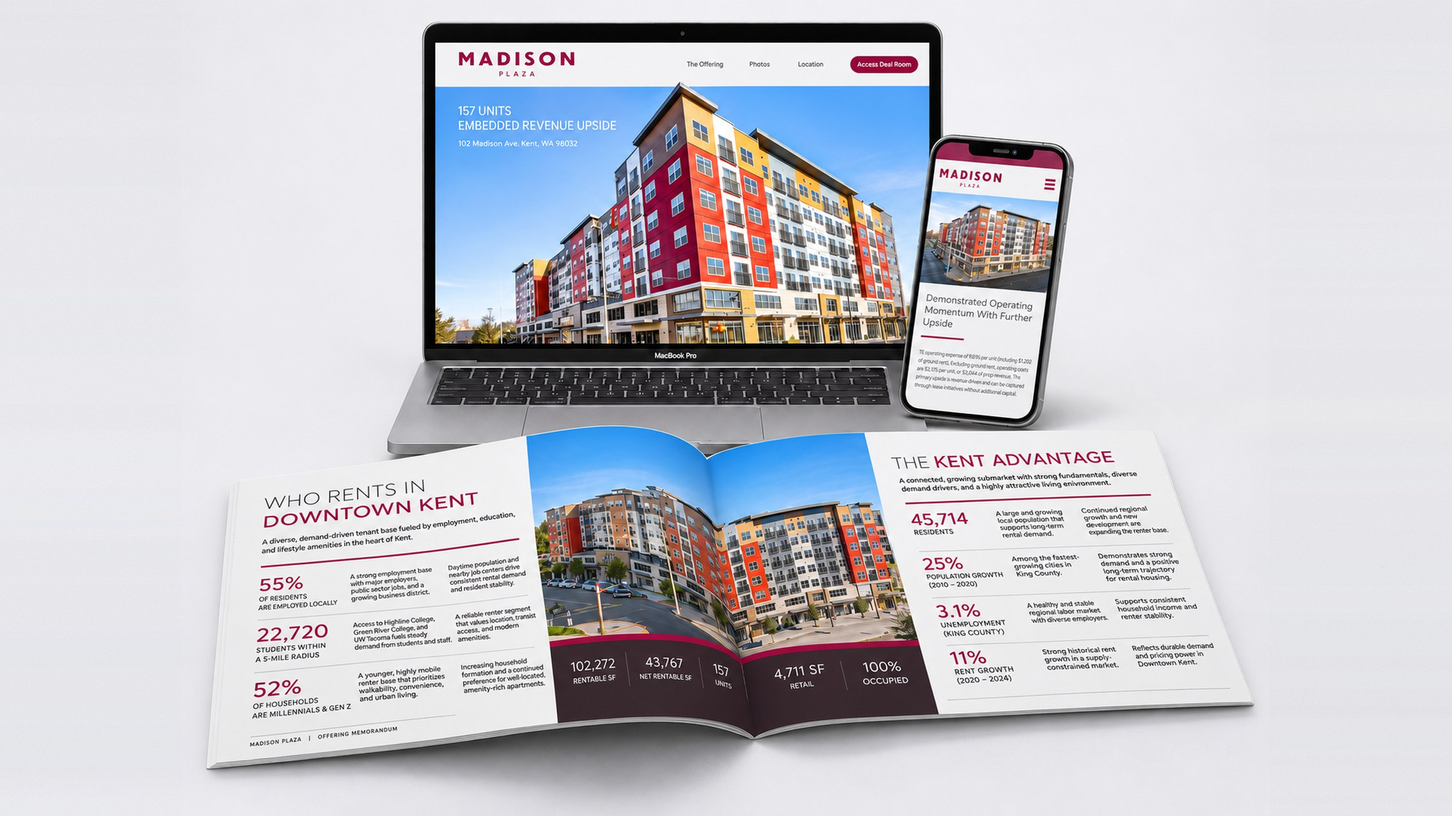
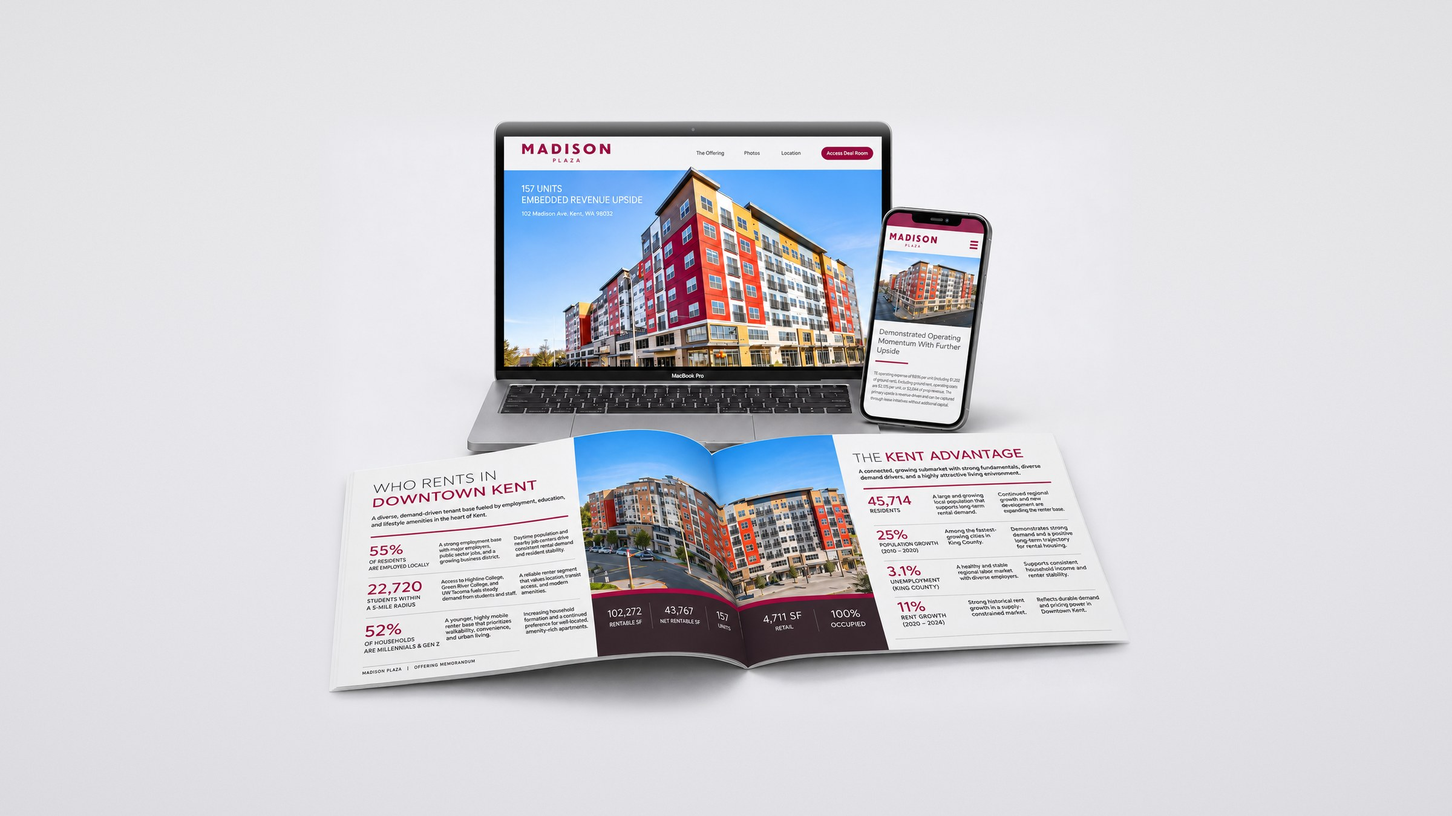
Final round: Madison home card with breathing room; Nomad hero + card = Rodrigo's desk mockup

diff --git a/work/nomad.html b/work/nomad.html
@@ -13,7 +13,7 @@
 <button class="menu-btn mono-s" aria-expanded="false" aria-controls="site-links"><span>Menu</span></button>
 <nav class="links" id="site-links"><a class="nav-t" href="../works.html#real-estate" aria-current="page">Real Estate</a><a class="nav-t" href="../works.html#brand">Brand &amp; Ecommerce</a><a class="nav-t" href="../about.html">About</a><a class="nav-t" href="../contact.html">Contact</a><a class="btn sm pri" href="../contact.html">Get in Touch <span aria-hidden="true">→</span></a></nav></header>
 <main id="main"><section class="wrap case-cover" data-name="Case Cover"><div class="row" style="justify-content:space-between;gap:16px"><span class="mono muted">[Case Study] Real Estate</span><a class="mono muted" href="../works.html">← All Works</a></div>
-<div class="g12"><h1 class="case-title c1-8">Nomad</h1><p class="bl c8-13">An investor offering package that sells a North Portland apartment community through bold colour, editorial photography and clear market storytelling.</p></div></section><div class="case-hero" data-name="Hero Mockup"><img src="../assets/img/nomad/hero.jpg?v=4404f5a2" alt="Nomad — hero mockup" width="2400" height="1350" decoding="async"></div><section class="wrap case-meta" data-name="Meta"><div class="meta-row"><div><span class="mono-s muted">[Client]</span><span class="bm">Colliers</span></div><div><span class="mono-s muted">[Type]</span><span class="bm">Investor Offering Package</span></div><div><span class="mono-s muted">[Location]</span><span class="bm">Overlook, North Portland, OR</span></div><div><span class="mono-s muted">[Year]</span><span class="bm">2026</span></div><div><span class="mono-s muted">[Role]</span><span class="bm">Graphic Designer</span></div></div></section><section class="dark psr" data-name="Project / Solution / Results">
+<div class="g12"><h1 class="case-title c1-8">Nomad</h1><p class="bl c8-13">An investor offering package that sells a North Portland apartment community through bold colour, editorial photography and clear market storytelling.</p></div></section><div class="case-hero" style="aspect-ratio:1448/1086" data-name="Hero Mockup"><img src="../assets/img/nomad/hero.jpg?v=80cf31cd" alt="Nomad — hero mockup" width="1448" height="1086" decoding="async"></div><section class="wrap case-meta" data-name="Meta"><div class="meta-row"><div><span class="mono-s muted">[Client]</span><span class="bm">Colliers</span></div><div><span class="mono-s muted">[Type]</span><span class="bm">Investor Offering Package</span></div><div><span class="mono-s muted">[Location]</span><span class="bm">Overlook, North Portland, OR</span></div><div><span class="mono-s muted">[Year]</span><span class="bm">2026</span></div><div><span class="mono-s muted">[Role]</span><span class="bm">Graphic Designer</span></div></div></section><section class="dark psr" data-name="Project / Solution / Results">
 <div class="blk"><div class="lab"><span class="mono muted">[01]</span><span class="s">Project</span></div><div class="txt"><p class="s">Nomad is an apartment community in North Portland’s Overlook neighborhood, brought to market by Colliers as an investment sale. The offering package had to give institutional and private investors a fast, credible read on the property, the neighborhood and the Portland market — and make the opportunity stand out in a crowded deal pipeline.</p></div></div>
 <div class="blk"><div class="lab"><span class="mono muted">[02]</span><span class="s">Solution</span></div><div class="txt"><p class="bl">A landscape document organized into five numbered chapters — Investment Summary, Property Description, Market Overview, The Comparables and The Financials. Each chapter opens on a full-bleed photograph washed in a red-to-yellow colour gradient, with a charcoal chapter tab and an oversized italic numeral.</p><p class="bl">A tight system carries every page: heavy italic display type and orange headlines in outlined title boxes, a four-colour palette of signal red, orange, sun yellow and charcoal, diagonal hatch accents, a consistent icon set, a custom site plan, neighborhood and access maps, and charts drawn in the same palette so market data reads at a glance.</p></div></div>
 </section><section class="case-gallery white" data-name="Gallery"><div class="wrap cg8"><div class="cg-col"><div class="g-block"><div class="g-head"><h2 class="ci-h">Design system</h2><p class="bm muted">Palette sampled from the printed pages.</p></div><div class="gallery"><div class="swatches"><div class="col gap8"><div class="sw" style="background:#FF343B"></div><span class="mono-s">Signal Red</span><span class="mono-s muted">#FF343B</span></div><div class="col gap8"><div class="sw" style="background:#FF7B21"></div><span class="mono-s">Orange</span><span class="mono-s muted">#FF7B21</span></div><div class="col gap8"><div class="sw" style="background:#FFC55E"></div><span class="mono-s">Sun Yellow</span><span class="mono-s muted">#FFC55E</span></div><div class="col gap8"><div class="sw" style="background:#3C3839"></div><span class="mono-s">Charcoal</span><span class="mono-s muted">#3C3839</span></div><div class="col gap8"><div class="sw" style="background:#FFFFFF"></div><span class="mono-s">White</span><span class="mono-s muted">#FFFFFF</span></div></div></div></div><div class="g-block"><div class="g-head"><h2 class="ci-h">The printed book</h2></div><div class="gallery"><div class="g-row"><figure class="pic" style="flex:1.7778 1 0"><img src="../assets/img/nomad/book_a.jpg?v=9544cfde" alt="The 03 Market Overview spread beside the closed cover" width="2400" height="1350" decoding="async"></figure></div><div class="g-row"><figure class="pic" style="flex:1.7778 1 0"><img src="../assets/img/nomad/book_b.jpg?v=d80491ac" alt="The back cover with the contacts beside the Overlook Neighborhood spread" width="2400" height="1350" decoding="async"></figure></div><div class="g-row"><figure class="pic" style="flex:1.7778 1 0"><img src="../assets/img/nomad/book_c.jpg?v=89a4a194" alt="Inside spreads: property, floor plans and apartment amenities" width="2400" height="1350" decoding="async"></figure></div></div></div><div class="g-block"><div class="g-head"><h2 class="ci-h">Inside the book</h2><p class="bm muted">The whole book as an investor meets it — investment summary, the property, amenities and floor plans, the market and the comparables, through to the back cover. Turn the pages.</p></div><div class="fb-stage" data-name="Flip-book"><div class="fb-wrap"><div id="fb-book" class="fb-book" data-total="56"><div class="fb-page" data-pg="01" data-density="hard"><img alt="Nomad offering memorandum — Front cover" src="../assets/img/nomad/flip/f00.jpg" draggable="false"></div><div class="fb-page" data-pg="02"><img alt="Nomad offering memorandum — Page 2" src="../assets/img/nomad/flip/f01.jpg" draggable="false"></div><div class="fb-page" data-pg="03"><img alt="Nomad offering memorandum — Page 3" src="../assets/img/nomad/flip/f02.jpg" draggable="false"></div><div class="fb-page" data-pg="04"><img alt="Nomad offering memorandum — Page 4" src="../assets/img/nomad/flip/f03.jpg" draggable="false"></div><div class="fb-page" data-pg="05"><img alt="Nomad offering memorandum — Page 5" src="../assets/img/nomad/flip/f04.jpg" draggable="false"></div><div class="fb-page" data-pg="06"><img alt="Nomad offering memorandum — Page 6" src="../assets/img/nomad/flip/f05.jpg" draggable="false"></div><div class="fb-page" data-pg="07"><img alt="Nomad offering memorandum — Page 7" src="../assets/img/nomad/flip/f06.jpg" draggable="false"></div><div class="fb-page" data-pg="08"><img alt="Nomad offering memorandum — Page 8" src="../assets/img/nomad/flip/f07.jpg" draggable="false"></div><div class="fb-page" data-pg="09"><img alt="Nomad offering memorandum — Page 9" src="../assets/img/nomad/flip/f08.jpg" draggable="false"></div><div class="fb-page" data-pg="10"><img alt="Nomad offering memorandum — Page 10" src="../assets/img/nomad/flip/f09.jpg" draggable="false"></div><div class="fb-page" data-pg="11"><img alt="Nomad offering memorandum — Page 11" src="../assets/img/nomad/flip/f10.jpg" draggable="false"></div><div class="fb-page" data-pg="12"><img alt="Nomad offering memorandum — Page 12" src="../assets/img/nomad/flip/f11.jpg" draggable="false"></div><div class="fb-page" data-pg="13"><img alt="Nomad offering memorandum — Page 13" src="../assets/img/nomad/flip/f12.jpg" draggable="false"></div><div class="fb-page" data-pg="14"><img alt="Nomad offering memorandum — Page 14" src="../assets/img/nomad/flip/f13.jpg" draggable="false"></div><div class="fb-page" data-pg="15"><img alt="Nomad offering memorandum — Page 15" src="../assets/img/nomad/flip/f14.jpg" draggable="false"></div><div class="fb-page" data-pg="16"><img alt="Nomad offering memorandum — Page 16" src="../assets/img/nomad/flip/f15.jpg" draggable="false"></div><div class="fb-page" data-pg="17"><img alt="Nomad offering memorandum — Page 17" src="../assets/img/nomad/flip/f16.jpg" draggable="false"></div><div class="fb-page" data-pg="18"><img alt="Nomad offering memorandum — Page 18" src="../assets/img/nomad/flip/f17.jpg" draggable="false"></div><div class="fb-page" data-pg="19"><img alt="Nomad offering memorandum — Page 19" src="../assets/img/nomad/flip/f18.jpg" draggable="false"></div><div class="fb-page" data-pg="20"><img alt="Nomad offering memorandum — Page 20" src="../assets/img/nomad/flip/f19.jpg" draggable="false"></div><div class="fb-page" data-pg="21"><img alt="Nomad offering memorandum — Page 21" src="../assets/img/nomad/flip/f20.jpg" draggable="false"></div><div class="fb-page" data-pg="22"><img alt="Nomad offering memorandum — Page 22" src="../assets/img/nomad/flip/f21.jpg" draggable="false"></div><div class="fb-page" data-pg="23"><img alt="Nomad offering memorandum — Page 23" src="../assets/img/nomad/flip/f22.jpg" draggable="false"></div><div class="fb-page" data-pg="24"><img alt="Nomad offering memorandum — Page 24" src="../assets/img/nomad/flip/f23.jpg" draggable="false"></div><div class="fb-page" data-pg="25"><img alt="Nomad offering memorandum — Page 25" src="../assets/img/nomad/flip/f24.jpg" draggable="false"></div><div class="fb-page" data-pg="26"><img alt="Nomad offering memorandum — Page 26" src="../assets/img/nomad/flip/f25.jpg" draggable="false"></div><div class="fb-page" data-pg="27"><img alt="Nomad offering memorandum — Page 27" src="../assets/img/nomad/flip/f26.jpg" draggable="false"></div><div class="fb-page" data-pg="28"><img alt="Nomad offering memorandum — Page 28" src="../assets/img/nomad/flip/f27.jpg" draggable="false"></div><div class="fb-page" data-pg="29"><img alt="Nomad offering memorandum — Page 29" src="../assets/img/nomad/flip/f28.jpg" draggable="false"></div><div class="fb-page" data-pg="30"><img alt="Nomad offering memorandum — Page 30" src="../assets/img/nomad/flip/f29.jpg" draggable="false"></div><div class="fb-page" data-pg="31"><img alt="Nomad offering memorandum — Page 31" src="../assets/img/nomad/flip/f30.jpg" draggable="false"></div><div class="fb-page" data-pg="32"><img alt="Nomad offering memorandum — Page 32" src="../assets/img/nomad/flip/f31.jpg" draggable="false"></div><div class="fb-page" data-pg="33"><img alt="Nomad offering memorandum — Page 33" src="../assets/img/nomad/flip/f32.jpg" draggable="false"></div><div class="fb-page" data-pg="34"><img alt="Nomad offering memorandum — Page 34" src="../assets/img/nomad/flip/f33.jpg" draggable="false"></div><div class="fb-page" data-pg="35"><img alt="Nomad offering memorandum — Page 35" src="../assets/img/nomad/flip/f34.jpg" draggable="false"></div><div class="fb-page" data-pg="36"><img alt="Nomad offering memorandum — Page 36" src="../assets/img/nomad/flip/f35.jpg" draggable="false"></div><div class="fb-page" data-pg="37"><img alt="Nomad offering memorandum — Page 37" src="../assets/img/nomad/flip/f36.jpg" draggable="false"></div><div class="fb-page" data-pg="38"><img alt="Nomad offering memorandum — Page 38" src="../assets/img/nomad/flip/f37.jpg" draggable="false"></div><div class="fb-page" data-pg="39"><img alt="Nomad offering memorandum — Page 39" src="../assets/img/nomad/flip/f38.jpg" draggable="false"></div><div class="fb-page" data-pg="40"><img alt="Nomad offering memorandum — Page 40" src="../assets/img/nomad/flip/f39.jpg" draggable="false"></div><div class="fb-page" data-pg="41"><img alt="Nomad offering memorandum — Page 41" src="../assets/img/nomad/flip/f40.jpg" draggable="false"></div><div class="fb-page" data-pg="42"><img alt="Nomad offering memorandum — Page 42" src="../assets/img/nomad/flip/f41.jpg" draggable="false"></div><div class="fb-page" data-pg="43"><img alt="Nomad offering memorandum — Page 43" src="../assets/img/nomad/flip/f42.jpg" draggable="false"></div><div class="fb-page" data-pg="44"><img alt="Nomad offering memorandum — Page 44" src="../assets/img/nomad/flip/f43.jpg" draggable="false"></div><div class="fb-page" data-pg="45"><img alt="Nomad offering memorandum — Page 45" src="../assets/img/nomad/flip/f44.jpg" draggable="false"></div><div class="fb-page" data-pg="46"><img alt="Nomad offering memorandum — Page 46" src="../assets/img/nomad/flip/f45.jpg" draggable="false"></div><div class="fb-page" data-pg="47"><img alt="Nomad offering memorandum — Page 47" src="../assets/img/nomad/flip/f46.jpg" draggable="false"></div><div class="fb-page" data-pg="48"><img alt="Nomad offering memorandum — Page 48" src="../assets/img/nomad/flip/f47.jpg" draggable="false"></div><div class="fb-page" data-pg="49"><img alt="Nomad offering memorandum — Page 49" src="../assets/img/nomad/flip/f48.jpg" draggable="false"></div><div class="fb-page fb-conf fb-conf-l" data-pg="50"><div class="fb-confin"><span class="fb-conft">Confidential —<span class="po"> financial information omitted</span></span></div></div><div class="fb-page fb-conf fb-conf-r" data-pg="55"><div class="fb-confin"><span class="fb-conft la">financial information omitted</span><span class="mono-s fb-confm po">[05] The Financials · pages 50–55</span></div></div><div class="fb-page" data-pg="56" data-density="hard"><img alt="Nomad offering memorandum — Back cover" src="../assets/img/nomad/flip/f49.jpg" draggable="false"></div></div></div>

diff --git a/index.html b/index.html
@@ -31,10 +31,10 @@
 <div class="grid2 mt64"><a class="card" href="work/the-grid.html" data-name="Project Card / The Grid (Kirkland 405)"><div class="ph "><img src="assets/img/the-grid/card.jpg?v=7beb50c8" alt="The Grid (Kirkland 405) — project image" width="1647" height="1235" decoding="async"></div>
 <div class="meta"><div class="col"><span class="s">The Grid (Kirkland 405)</span><span class="mono muted">Naming &amp; Brand Identity · Kirkland, WA</span></div><span class="mono">2025</span></div></a><a class="card" href="work/pacific-center.html" data-name="Project Card / Pacific Center"><div class="ph "><img src="assets/img/pacific-center/card.jpg?v=2789054b" alt="Pacific Center — project image" width="1440" height="1080" decoding="async"></div>
 <div class="meta"><div class="col"><span class="s">Pacific Center</span><span class="mono muted">Leasing Brochure · Portland, OR</span></div><span class="mono">2026</span></div></a></div>
-<div class="mt64"><a class="card" href="work/madison-plaza.html" data-name="Project Card / Madison Plaza"><div class="ph r169"><img src="assets/img/madison-plaza/card-wide.jpg?v=ffceb607" alt="Madison Plaza — project image" width="2400" height="1350" decoding="async"></div>
+<div class="mt64"><a class="card" href="work/madison-plaza.html" data-name="Project Card / Madison Plaza"><div class="ph r169"><img src="assets/img/madison-plaza/card-wide.jpg?v=1e63f0b9" alt="Madison Plaza — project image" width="2400" height="1350" decoding="async"></div>
 <div class="meta"><div class="col"><span class="s">Madison Plaza</span><span class="mono muted">Investor Offering Package · Kent, WA</span></div><span class="mono">2026</span></div></a></div>
 <div class="grid2 mt64"><a class="card" href="work/leftbank.html" data-name="Project Card / The Leftbank Project"><div class="ph "><img src="assets/img/leftbank/card.jpg?v=5ea756f8" alt="The Leftbank Project — project image" width="1440" height="1080" decoding="async"></div>
-<div class="meta"><div class="col"><span class="s">The Leftbank Project</span><span class="mono muted">Digital Leasing Brochure · Portland, OR</span></div><span class="mono">2026</span></div></a><a class="card" href="work/nomad.html" data-name="Project Card / Nomad"><div class="ph "><img src="assets/img/nomad/card.jpg?v=d7f63ac6" alt="Nomad — project image" width="1440" height="1080" decoding="async"></div>
+<div class="meta"><div class="col"><span class="s">The Leftbank Project</span><span class="mono muted">Digital Leasing Brochure · Portland, OR</span></div><span class="mono">2026</span></div></a><a class="card" href="work/nomad.html" data-name="Project Card / Nomad"><div class="ph "><img src="assets/img/nomad/card.jpg?v=63264f4c" alt="Nomad — project image" width="1440" height="1080" decoding="async"></div>
 <div class="meta"><div class="col"><span class="s">Nomad</span><span class="mono muted">Investor Offering Package · Overlook, North Portland, OR</span></div><span class="mono">2026</span></div></a></div>
 <div class="grid2 mt64"><a class="card" href="work/springwood.html" data-name="Project Card / Springwood of Beaverton"><div class="ph "><img src="assets/img/springwood/hero.jpg?v=68efe637" alt="Springwood of Beaverton — project image" width="2304" height="1728" decoding="async"></div>
 <div class="meta"><div class="col"><span class="s">Springwood of Beaverton</span><span class="mono muted">Digital Offering Memorandum · Beaverton, OR</span></div><span class="mono">2026</span></div></a><a class="card" href="work/mauzey-court.html" data-name="Project Card / 8210 Mauzey Court"><div class="ph "><img src="assets/img/mauzey-court/card.jpg?v=dc999030" alt="8210 Mauzey Court — project image" width="2304" height="1728" decoding="async"></div>

diff --git a/works.html b/works.html
@@ -18,7 +18,7 @@
 <div class="sec-head clean"><div class="col gap16"><span class="mono muted">[01] (10)</span><h2 class="xl">Real Estate</h2></div><p class="bm muted intro">Leasing brochures, offering memorandums, branding, and digital marketing for commercial real estate — strategy and execution, from first concept to launch.</p></div>
 <div class="grid2"><a class="card" href="work/pdx-west.html" data-name="Project Card / PDX West Logistics Center"><div class="ph "><img src="assets/img/pdx-west/card.jpg?v=b9205638" alt="PDX West Logistics Center — project image" width="2304" height="1728" decoding="async"></div>
 <div class="meta"><div class="col"><span class="s">PDX West Logistics Center</span><span class="mono muted">Digital Leasing Brochure · Portland, OR</span></div><span class="mono">2026</span></div></a><a class="card" href="work/kress-building.html" data-name="Project Card / Kress Building"><div class="ph "><img src="assets/img/kress-building/card.jpg?v=b39d0d43" alt="Kress Building — project image" width="2304" height="1728" decoding="async"></div>
-<div class="meta"><div class="col"><span class="s">Kress Building</span><span class="mono muted">Digital Leasing Brochure · Portland, OR</span></div><span class="mono">2026</span></div></a><a class="card" href="work/nomad.html" data-name="Project Card / Nomad"><div class="ph "><img src="assets/img/nomad/card.jpg?v=d7f63ac6" alt="Nomad — project image" width="1440" height="1080" decoding="async"></div>
+<div class="meta"><div class="col"><span class="s">Kress Building</span><span class="mono muted">Digital Leasing Brochure · Portland, OR</span></div><span class="mono">2026</span></div></a><a class="card" href="work/nomad.html" data-name="Project Card / Nomad"><div class="ph "><img src="assets/img/nomad/card.jpg?v=63264f4c" alt="Nomad — project image" width="1440" height="1080" decoding="async"></div>
 <div class="meta"><div class="col"><span class="s">Nomad</span><span class="mono muted">Investor Offering Package · Overlook, North Portland, OR</span></div><span class="mono">2026</span></div></a><a class="card" href="work/the-grid.html" data-name="Project Card / The Grid (Kirkland 405)"><div class="ph "><img src="assets/img/the-grid/card.jpg?v=7beb50c8" alt="The Grid (Kirkland 405) — project image" width="1647" height="1235" decoding="async"></div>
 <div class="meta"><div class="col"><span class="s">The Grid (Kirkland 405)</span><span class="mono muted">Naming &amp; Brand Identity · Kirkland, WA</span></div><span class="mono">2025</span></div></a><a class="card" href="work/pacific-center.html" data-name="Project Card / Pacific Center"><div class="ph "><img src="assets/img/pacific-center/card.jpg?v=2789054b" alt="Pacific Center — project image" width="1440" height="1080" decoding="async"></div>
 <div class="meta"><div class="col"><span class="s">Pacific Center</span><span class="mono muted">Leasing Brochure · Portland, OR</span></div><span class="mono">2026</span></div></a><a class="card" href="work/leftbank.html" data-name="Project Card / The Leftbank Project"><div class="ph "><img src="assets/img/leftbank/card.jpg?v=5ea756f8" alt="The Leftbank Project — project image" width="1440" height="1080" decoding="async"></div>

diff --git a/work/kress-building.html b/work/kress-building.html
@@ -22,7 +22,7 @@
 <div class="tab-dots" aria-hidden="true"><i class="on"></i><i></i><i></i><i></i><i></i><i></i><i></i><i></i><i></i><i></i></div>
 <div class="tab-foot"><span class="mono-s tab-hint"><span class="hd">Swipe or drag the page, click its edge, or use the <span class="kb">←</span> <span class="kb">→</span> keys</span><span class="hm">Swipe the screen or tap the arrows</span></span></div><p class="mono-s tab-note">All ten pages are shown as published — the leasing details in this brochure are public record.</p></div></div></div></div></section><section class="case-next" data-name="Next Project"><div class="wrap cg8">
 <div class="cn-head"><h2 class="cn-title">Next Project</h2><a class="btn sec sm" href="../works.html">All Works <span aria-hidden="true">→</span></a></div>
-<a class="cn-card" href="../work/nomad.html"><div class="ph"><img src="../assets/img/nomad/card.jpg?v=d7f63ac6" alt="Nomad" width="1440" height="1080" decoding="async"></div>
+<a class="cn-card" href="../work/nomad.html"><div class="ph"><img src="../assets/img/nomad/card.jpg?v=63264f4c" alt="Nomad" width="1440" height="1080" decoding="async"></div>
 <div class="cn-meta"><span class="mono-s">Nomad</span><span class="mono-s">2026</span></div></a>
 </div></section></main>
 <footer class="foot dark" data-name="Footer CTA">

diff --git a/_src/final_round.py b/_src/final_round.py
@@ -1,0 +1,38 @@
+"""Nov 24 final round (Rodrigo t106u):
+- Madison HOME wide card: his mockup scaled to ~75% inside the 16:9 frame, centred, on the plain studio backdrop
+  (breathing room on all sides). Works card + hero (madison_mock.py) unchanged.
+- Nomad hero + card = Rodrigo's desk mockup uploads/nomad-desk-mockup-new.png (open Overlook spread + cover on a desk),
+  used as provided: hero in its own 4:3 frame (build.py HERO_RATIO), card = 1440x1080 resize. Replaces nomad_book.hero()/card."""
+import os
+import numpy as np
+from PIL import Image, ImageFilter
+ROOT = os.path.dirname(os.path.dirname(os.path.abspath(__file__)))
+IMG = os.path.join(ROOT, 'assets', 'img')
+MADISON = '/workspace/uploads/madison-mockup-new.png'
+NOMAD = '/workspace/uploads/nomad-desk-mockup-new.png'
+
+def madison_wide(scale=0.75, W=2400, H=1350):
+    im = Image.open(MADISON).convert('RGB')
+    h = int(H * scale * 1.02); w = round(im.width * h / im.height)        # mockup content height ~76% of the frame
+    sm = im.resize((w, h), Image.LANCZOS)
+    a = np.asarray(im, np.float32)
+    top = np.median(a[:30].reshape(-1, 3), 0); bot = np.median(a[-12:].reshape(-1, 3), 0)
+    t = np.linspace(0, 1, H)[:, None, None]
+    yy, xx = np.mgrid[0:H, 0:W]
+    vig = 1 - 0.025 * (np.hypot((xx - W / 2) / W, (yy - H / 2) / H) * 2) ** 2   # the backdrop's own soft fall-off
+    bg = (top * (1 - t) + bot * t) * vig[..., None] + np.random.default_rng(3).normal(0, 1.0, (H, W, 1))
+    cv = Image.fromarray(np.clip(bg, 0, 255).astype(np.uint8))
+    m = Image.new('L', (w, h), 0); f = 36
+    m.paste(255, (f, f, w - f, h - f)); m = m.filter(ImageFilter.GaussianBlur(f / 2))   # feathered edge into the backdrop
+    x0 = (W - w) // 2; y0 = (H - h) // 2 + int(H * 0.01)
+    cv.paste(sm, (x0, y0), m)
+    cv.save(os.path.join(IMG, 'madison-plaza', 'card-wide.jpg'), quality=88, optimize=True, progressive=True)
+
+def nomad():
+    im = Image.open(NOMAD).convert('RGB')
+    im.save(os.path.join(IMG, 'nomad', 'hero.jpg'), quality=90, optimize=True, progressive=True)
+    im.resize((1440, 1080), Image.LANCZOS).save(os.path.join(IMG, 'nomad', 'card.jpg'), quality=88, optimize=True, progressive=True)
+
+def main():
+    madison_wide(); nomad(); print('final round: madison card-wide, nomad hero/card')
+if __name__ == '__main__': main()

diff --git a/_src/build.py b/_src/build.py
@@ -247,7 +247,7 @@ def meta_items(p):
     if p['cat'] == 'interactive':
         return [('Client', p['client']), ('Type', p['type']), ('Format', p['tool'] + ' interactive presentation'), ('Location', p['place']), ('Year', p['year']), ('Role', p['role'])]
     return [('Client', p['client']), ('Type', p['type']), ('Location', p['place']), ('Year', p['year']), ('Role', p['role'])]
-HERO_RATIO = {"pacific-center": "1448/910", "leftbank": "1448/920", "madison-plaza": "1448/1086"}   # hero image shown whole in its own frame ratio (Rodrigo's 4:3 desk mockup, t101u)
+HERO_RATIO = {"pacific-center": "1448/910", "leftbank": "1448/920", "madison-plaza": "1448/1086", "nomad": "1448/1086"}   # hero image shown whole in its own frame ratio (Rodrigo's 4:3 desk mockup, t101u)
 HERO_FIT = set()   # (was madison-plaza; since t105u its hero is Rodrigo's mockup in its own 4:3 frame, see HERO_RATIO)
 def case_head(p, r):
     lab = CAT_LABEL[p['cat']]

diff --git a/_src/images.py b/_src/images.py
@@ -105,6 +105,7 @@ def main():
     sys.path.insert(0, os.path.join(os.path.dirname(__file__), 'grid')); import grid_assets; grid_assets.main()   # The Grid identity case
     import madison_card; madison_card.main()
     import madison_mock; madison_mock.main()   # Nov 24 (t105u): Rodrigo's mockup = hero + card + card-wide (overrides madison_card)
+    import final_round; final_round.main()     # Nov 24 (t106u): Madison home card with breathing room; Nomad hero/card = Rodrigo's desk mockup (runs after nomad_book)
     # Nomad home/works card (Rodrigo t79u): his cover-on-stone image, used as is — the white screenshot border trimmed,
     # the stone frame (~4:3) kept whole, resized to the card size
     _n = Image.open(os.path.join(os.path.dirname(os.path.abspath(__file__)), 'nomad_card_src.png')).convert('RGB')

diff --git a/CLAUDE-HANDOFF.md b/CLAUDE-HANDOFF.md
@@ -68,6 +68,7 @@ _src/                    Generators (Python), described below
 | `images.py` | Master image pipeline: **deletes `assets/img/` entirely** and regenerates everything. It holds the `RE` dict (page selections + blur boxes as page fractions), the Nomad/brand/card copies, and then calls all the per-case generators below. | **Yes, everything.** See the §4 warning |
 | `nomad_book.py` | Nomad hero, printed-book mockups and full flip-book → `nomad_flip.json` (Nov 24) | pages/nomad-om, Nomad PDF (pdftotext -bbox), uploads/nomad-main-mockup-new.jpg |
 | `leftbank_round.py` | Leftbank shadowed brochure pages + hero/card from Rodrigo's upload (Nov 24) | assets/img/leftbank/sheets, uploads/leftbank-desk-mockup-new.jpg |
+| `final_round.py` | Nov 24 t106u: Madison home wide card with breathing room + Nomad hero/card from Rodrigo's upload (runs last in images.py) | uploads/madison-mockup-new.png, uploads/nomad-desk-mockup-new.png |
 | `madison_mock.py` | Madison hero/card/card-wide from Rodrigo's upload (Nov 24, runs after madison_card.py) | uploads/madison-mockup-new.png |
 | `madison_book.py` | Madison flip-book pages, blur boxes, black confidential spread → `madison_flip.json` | pages/madison-plaza-om, mockups |
 | `madison_card.py` | Madison home/works card: Rodrigo's white mockup on textured stone (devices/pages kept pure white; `BLUR = []`) | mockups/madison-plaza_hero-override.jpg |
@@ -106,6 +107,7 @@ bash /workspace/lauren-handoff-extras/render_pages.sh       # recreates the 200-
 | `uploads/MauzeyCourt-Hillsboro-OM.pdf` | Mauzey Court OM (financials inside) | flyer_sheets, render_pages | yes |
 | `uploads/big-pink.pdf` | Lauren's logo-concepts deck (Jul 2025) | bp_assets | yes |
 | `uploads/onepink-mockup-white.jpg`, `uploads/pdx-new-thumbnail.png` | Mockups Rodrigo supplied (reference originals) | reference | yes |
+| `uploads/nomad-desk-mockup-new.png` (Nov 24) | Nomad hero + card source (Rodrigo's mockup) | final_round.nomad() | **not in the Nov 24 zip** — copy to the Mac separately for Claude |
 | `uploads/madison-mockup-new.png` (Nov 24) | Madison hero + cards source (Rodrigo's mockup) | madison_mock.main() | **not in the Nov 24 zip** — copy to the Mac separately for Claude |
 | `uploads/leftbank-desk-mockup-bleed-fixed.png` (Nov 24) | Leftbank fixed master (made by leftbank_round.bleed_fix) | leftbank_round.main() | regenerated from the upload; copy with it |
 | `uploads/leftbank-desk-mockup-new.jpg` (Nov 24) | Leftbank hero + card source (Rodrigo's mockup) | leftbank_round.main() | **not in the Nov 24 zip** — copy to the Mac separately for Claude |
@@ -188,9 +190,9 @@ ruled meta row → dark [01] Project / [02] Solution / [03] Results → body →
 | `big-pink` | Big Pink, Pitch Presentation & Brand Concepts, 2025 (Interactive) | Ceros captures + `uploads/big-pink.pdf` + Ceros media | Big Pink deck palette, in `bigpink_blocks.py` (Dark Blue hero) | Leads with **OnePink**: TOC → mark, versions, moodboard, color, typography (Cabin), concept exploration (OneEleven, Big Pink, Prism "First round"), naming, in place (white `material.jpg`), **presentation last** (laptop viewer, 25 screens + 3 black screens). Hero + cards = OnePink on Dark Blue | Market, competition, fee proposal = black screens; team/client-list/reference/lease-map screens dropped; no Ceros link or embed |
 | `the-grid` | The Grid (Kirkland 405), Naming & Brand Identity, 2025 | `Kirkland Brand Design/` deck | Grid Grey #777C80, Stone #EAE7E3, Silver #BABABA, Graphite #1D1D1F, White | Card + hero = Lauren's entrance-wall mockup (the logo at a building entrance); vector logos; Open Sans | Nothing blurred; client feedback paraphrased, no names. Results = the client confirmed The Grid (sourced) |
 | `pacific-center` | Pacific Center, Leasing Brochure, 2026 | `PacificCenter-Flyer.pdf` | Navy #212B3B, Slate Blue #435774, Taupe #D7CBC4, Umber #583117, White | Poster hero; open-spread mockup; 12-page portrait flip-book | No financials; all pages shown — **Nov 24 (t99u):** hero = open "In the heart of downtown" spread behind the closed cover on WHITE (`_src/pacific_mock.py`, like the Nomad mockup); home/works/next-project card (t100u) = the same pair on a cool concrete desk with its front edge visible (`desk_card()`, cool greys to sit beside The Grid card); the open-spread mockup under "The printed brochure" was replaced by `book_fan.jpg` (amenities/highlights/neighborhood spreads fanned on stone); cover/back row and flip-book unchanged — **Nov 24 round 2 (t101u), supersedes the above:** hero + home/works/next-project card = Rodrigo's own desk mockup `uploads/pacific-desk-mockup-new.png` (cover + Highlights spread on concrete by a window), used as provided (card = 1440×1080 resize; hero = crop y 70–980, shown in a 1448:910 frame via build.py `HERO_RATIO`, so the book is whole); `book_fan.jpg` removed; "The printed brochure" keeps only the front/back cover row. The generated white hero and desk card in `pacific_mock.py` are no longer used |
-| `madison-plaza` | Madison Plaza, Investor Offering Package, 2026 | `Madison Plaza_OM V25-compressed.pdf` + Rodrigo's hero | Raspberry #B0144A, Crimson #A41D41, Plum Charcoal #37272C, Warm Grey #ACA5A8, White | **Hero = Rodrigo's white original, never change it** (`.case-hero.fit`). Wide home card on textured stone, pages pure white, **nothing blurred** (approved exception). Swatches → printed book → flip-book | Financial pages (PDF 13–17) omitted behind a black spread; financial lines blurred **inside** the flip-book (incl. the phone/opex paragraph) — **Nov 24 (t105u), supersedes the above:** hero + Works card + Home wide card = Rodrigo's own mockup `uploads/madison-mockup-new.png` (MacBook + iPhone with the Madison site + open printed brochure), via `_src/madison_mock.py` (hero as provided in a 4:3 frame via build.py `HERO_RATIO`; card = 1440×1080; card-wide = backdrop extended left/right to 16:9). **Rodrigo explicitly overrode the old "Madison hero never changes (superseded Nov 24, t105u: Rodrigo replaced it with his own mockup)" rule.** Palette: the near-duplicate "Crimson" swatch removed (Raspberry kept, it matches the cover). Back cover (PDF 24) unblurred — names/titles/contacts only |
+| `madison-plaza` | Madison Plaza, Investor Offering Package, 2026 | `Madison Plaza_OM V25-compressed.pdf` + Rodrigo's hero | Raspberry #B0144A, Crimson #A41D41, Plum Charcoal #37272C, Warm Grey #ACA5A8, White | **Hero = Rodrigo's white original, never change it** (`.case-hero.fit`). Wide home card on textured stone, pages pure white, **nothing blurred** (approved exception). Swatches → printed book → flip-book | Financial pages (PDF 13–17) omitted behind a black spread; financial lines blurred **inside** the flip-book (incl. the phone/opex paragraph) — **Nov 24 (t105u), supersedes the above:** hero + Works card + Home wide card = Rodrigo's own mockup `uploads/madison-mockup-new.png` (MacBook + iPhone with the Madison site + open printed brochure), via `_src/madison_mock.py` (hero as provided in a 4:3 frame via build.py `HERO_RATIO`; card = 1440×1080; card-wide = backdrop extended left/right to 16:9). **Rodrigo explicitly overrode the old "Madison hero never changes (superseded Nov 24, t105u: Rodrigo replaced it with his own mockup)" rule.** Palette: the near-duplicate "Crimson" swatch removed (Raspberry kept, it matches the cover). Back cover (PDF 24) unblurred — names/titles/contacts only — **t106u:** the Home wide card (`card-wide.jpg`) now shows the mockup at ~75% inside the 16:9 frame on the extended studio backdrop (`final_round.madison_wide()`), for breathing room; Works card + hero unchanged |
 | `leftbank` | The Leftbank Project, Digital Leasing Brochure, 2026 | `Leftbank_Flyer.pdf` | Burnt Orange #CB5625, Black, Leaf Green #50B848, Map Grey #ECEBF0, White | Scene mockup; iPad, all 7 pages | Nothing blurred — **Nov 24 (t102u):** hero + home/works/next-project card = Rodrigo's own desk mockup `uploads/leftbank-desk-mockup-new.jpg` (tablet with the cover + printed Local Amenities map), used as provided (card = 1440×1080 resize; hero = crop y 50–970, shown in a 1448:920 frame via build.py `HERO_RATIO`); "The brochure" now uses `brochure_front/back.jpg` = sheets s01/s07 with a soft drop shadow cast onto the orange offset block only (`_src/leftbank_round.py`; t103u v3: box-shadow-like spread (offset 4/16 px, blur 30, 95%) so it reads at normal page scale along the top and right edges; v1/v2 were too faint); the iPad viewer keeps the plain sheets. **t104u:** the two pages also get a real page shadow (`.pic.lift img` box-shadow in site.css, class added in build.py `leftbank_blocks`) so they lift off the white background; hero/card now come from `uploads/leftbank-desk-mockup-bleed-fixed.png` (made by `leftbank_round.bleed_fix()`: the black Local Amenities block bled to the map sheet's left edge; the original upload is untouched) |
-| `nomad` | Nomad, Investor Offering Package, 2026 | `Nomad OM-digital.pdf` (29 PDF pages: PDF 1 cover, PDF 2–28 spreads = printed pp. 2n−2/2n−1, PDF 29 back cover = p. 56) + `uploads/nomad-main-mockup-new.jpg` | Signal Red #FF343B, Orange #FF7B21, Sun Yellow #FFC55E, Charcoal #3C3839, White | All from `_src/nomad_book.py` (Nov 24, t97u): hero = Rodrigo's mockup on white, only the empty margin trimmed to 16:9; home/works/next-project card (4:3) = the same mockup on white, side margins trimmed (t98u); printed book = 3 self-made top-down mockups on stone (`book_a/b/c.jpg`: 03 Market Overview + cover; back cover + Overlook spread; three inside spreads), gutter shadow + page-stack edges; flip-book = 52 pages (cover, pp. 2–49, black spread for pp. 50–55, back cover), counter shows printed folios (`data-total=56`). Maps & data section removed | Printed pp. 50–55 (PDF 26–28 pro forma/financials) omitted. Blurred: the subject's average rent (p9), the development-cost table (pp. 10–11), all rent figures in the rent comps (pp. 44–47); blur boxes come from the PDF's own word boxes (every word with a currency sign) |
+| `nomad` | Nomad, Investor Offering Package, 2026 | `Nomad OM-digital.pdf` (29 PDF pages: PDF 1 cover, PDF 2–28 spreads = printed pp. 2n−2/2n−1, PDF 29 back cover = p. 56) + `uploads/nomad-main-mockup-new.jpg` | Signal Red #FF343B, Orange #FF7B21, Sun Yellow #FFC55E, Charcoal #3C3839, White | All from `_src/nomad_book.py` (Nov 24, t97u): hero = Rodrigo's mockup on white, only the empty margin trimmed to 16:9; home/works/next-project card (4:3) = the same mockup on white, side margins trimmed (t98u); printed book = 3 self-made top-down mockups on stone (`book_a/b/c.jpg`: 03 Market Overview + cover; back cover + Overlook spread; three inside spreads), gutter shadow + page-stack edges; flip-book = 52 pages (cover, pp. 2–49, black spread for pp. 50–55, back cover), counter shows printed folios (`data-total=56`). Maps & data section removed | Printed pp. 50–55 (PDF 26–28 pro forma/financials) omitted. Blurred: the subject's average rent (p9), the development-cost table (pp. 10–11), all rent figures in the rent comps (pp. 44–47); blur boxes come from the PDF's own word boxes (every word with a currency sign) — **Nov 24 final (t106u), supersedes the hero/card above:** hero + home/works/next-project card = Rodrigo's desk mockup `uploads/nomad-desk-mockup-new.png` (open Overlook spread + cover on a desk), via `_src/final_round.py` (hero as provided in a 4:3 frame via build.py `HERO_RATIO`; card = 1440×1080). The spread shows the Overlook demographic stats (income/population/age; market data, Rodrigo's own mockup) |
 | `springwood` | Springwood of Beaverton, Digital Offering Memorandum, 2026 | `Springwood OM-draft9.pdf` | Charcoal #2C3132, Deep Teal #285D64, Teal #347179, Mist #F8F5F8, White | Scene mockup; iPad, PDF 1–13, 16, 18–22 + black screens | Cover average-rent figure, lot-rent range, rent-upside paragraph, tax figure blurred; financial overview + rent comps omitted |
 | `mauzey-court` | 8210 Mauzey Court, Digital Offering Memorandum, Hillsboro OR, 2026 (title/year pending) | `uploads/MauzeyCourt-Hillsboro-OM.pdf` | Deep Teal #004E61, Teal #00666D, Aqua #00A195, Seafoam #9FDDC5, White | **Same as PDX**: cover over back cover on stone (hero/card), mock_cover, mock_spread; iPad, sheets = PDF 1–6, 8–16 | p3 price/NOI line and p4 price row blurred; p7 lease abstract = black screen. Three figures shown pending Rodrigo (§9) |
 | `fortis-net-lease` | Fortis Net Lease, Marketing Design, 2018–2025 | Webflow export | — | Gallery | Listing flyers with prices/cap rates omitted; Results from Lauren's live site |
@@ -270,7 +272,8 @@ Blue, Madison wide, Nomad square); Marketplace sections; "Results stay `[[ ]]`".
 
 | Commit | Summary |
 |---|---|
-| (Nov 24) | Madison: Rodrigo's mockup = hero + cards; duplicate crimson swatch removed; back cover unblurred |
+| (Nov 24) | Final round: Madison home card scaled down for breathing room; Nomad hero + card = Rodrigo's desk mockup |
+| `51539df` | Madison: Rodrigo's mockup = hero + cards; duplicate crimson swatch removed; back cover unblurred |
 | `6dd1259` | Leftbank: map-sheet black bleed fixed in hero/card; brochure pages get a real page shadow |
 | `b54b7d9` | Leftbank: brochure shadow v3, visible at page scale (top + right edges) |
 | `4f38c9a` | Leftbank: brochure shadow v2 (still too faint) |
